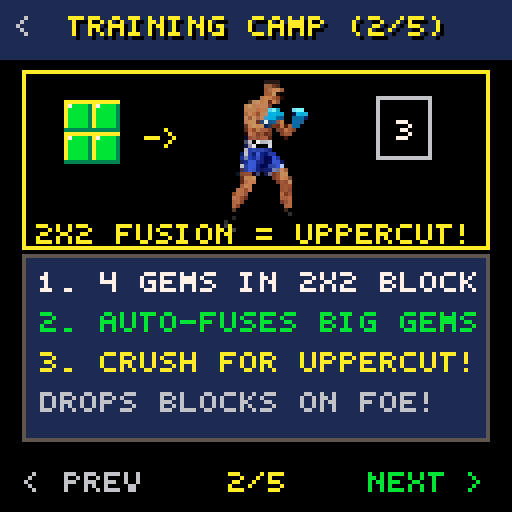
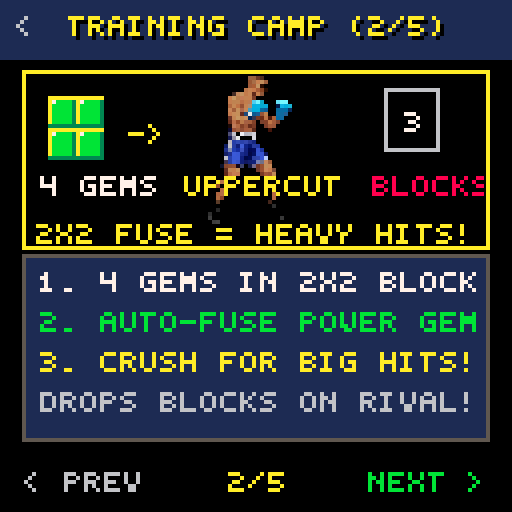
Clarify tutorial visuals with labeled Square Gem vs Round Crash Orb diagrams
Overhaul Training Camp Lesson 1 and visual aids for intuitive non-gamer clarity:
1. Provide explicit side-by-side labeled visual breakdown in Lesson 1 diorama:
   - SQUARE GEM (labeled as stack building block).
   - ROUND ORB (labeled as detonator bomb).
   - 3-step animated formula: Orb touches Gem -> Detonates -> Throws Punch!
2. Refine Lessons 2 through 5 with labeled visual elements, clear bullet points,
   and zero text clipping.
3. Refresh all 5 tutorial screenshots and the 6-tile composite contact sheet.
4. Increment version to v3.6.3 in index.html and README.md.

Constraint: Visuals must clearly explain puzzle fighter mechanics to non-gamers
Rejected: Unlabeled gem stacks without explicit component breakdowns
Confidence: high
Scope-risk: narrow
Directive: Maintain labeled diorama visual formulas in all future tutorial additions
Tested: Automated Chrome CDP test verifying all 5 tutorial pages with 0 console errors
Not-tested: none

diff --git a/index.html b/index.html
@@ -3,7 +3,7 @@
 <head>
   <meta charset="UTF-8">
   <meta name="viewport" content="width=device-width, initial-scale=1.0, maximum-scale=1.0, user-scalable=no, viewport-fit=cover">
-  <title>CRASH OUT: RING RUSH (v3.6.2) — Authentic In-Game Gems & Training Camp</title>
+  <title>CRASH OUT: RING RUSH (v3.6.3) — Crystal Clear Visual Training Camp</title>
   <style>
     :root {
       --pico-black: #000000;
@@ -3975,7 +3975,7 @@
       if (Math.floor(globalFrameCount / 22) % 2 === 0) {
         printPicoCenter('PRESS START / TOUCH', 109, 10, 1, true);
       }
-      printPicoCenter('OBEATS STUDIOS 2026  BUILD 3.6.2', 121, 6, 1);
+      printPicoCenter('OBEATS STUDIOS 2026  BUILD 3.6.3', 121, 6, 1);
     }
 
     // === MODE SELECT RENDERER ===
@@ -4148,103 +4148,118 @@
       const animT = Math.floor(globalFrameCount * 0.1) % 60;
 
       if (tutorialPage === 0) {
-        // ── Lesson 1: Match & Crush (Puzzles -> Boxing Punches) ──
-        // Left: Falling Gem Pair (Type 2 Blue + Type 4 Yellow)
-        const gemDropY = 22 + (animT % 12);
-        drawTutorialGem(ctx, 15, gemDropY, 2, false, 3, 7, 8);
-        drawTutorialGem(ctx, 15, gemDropY + 8, 4, false, 3, 7, 8);
-        // Down arrow
-        ctx.fillStyle = getPalColor(7);
-        ctx.fillRect(18, 38, 1, 4); ctx.fillRect(17, 41, 3, 1);
+        // ── Lesson 1: Match & Crush (Square Gems vs Round Crash Orbs) ──
+        // 1. Left Column: SQUARE GEM (Passive stacking block)
+        drawTutorialGem(ctx, 15, 21, 2, false, 3, 10, 10); // Large Blue Square Gem
+        printPico('SQUARE', 11, 35, 10, 1);
+        printPico('STACK', 13, 44, 7, 1);
 
-        // Center: Stacked Red Gems (Type 1) + Glowing Red Crash Orb (Type 5)
-        drawTutorialGem(ctx, 44, 42, 1, false, 3, 7, 8);
-        drawTutorialGem(ctx, 44, 50, 1, false, 3, 7, 8);
-        drawTutorialGem(ctx, 44, 32, 5, false, 3, 7, 8, true); // Glowing crash orb!
+        // 2. Middle Column: ROUND CRASH ORB (Active detonator bomb)
+        drawTutorialGem(ctx, 48, 21, 5, false, 3, 10, 10, true); // Large Red Crash Orb
+        printPico('ROUND', 47, 35, 10, 1);
+        printPico('BOMB!', 47, 44, 8, 1, true);
 
-        // Right: Explosion spark particles & Boxer punching!
-        const isDet = (animT > 30);
-        if (isDet) {
+        // 3. Right Column: Orb + Gem Detonation Formula
+        const isDet = (animT > 25);
+        if (!isDet) {
+          // Red Orb landing on Red Gem
+          drawTutorialGem(ctx, 80, 22, 5, false, 3, 8, 8, true);
+          drawTutorialGem(ctx, 80, 31, 1, false, 3, 8, 8);
+        } else {
+          // Animated explosion sparks
           ctx.fillStyle = getPalColor(10);
-          ctx.fillRect(68, 38, 3, 3); ctx.fillRect(74, 32, 2, 2); ctx.fillRect(66, 46, 2, 2);
+          ctx.fillRect(78, 26, 3, 3); ctx.fillRect(84, 20, 2, 2); ctx.fillRect(76, 34, 2, 2);
           ctx.fillStyle = getPalColor(7);
-          ctx.fillRect(70, 36, 2, 2); ctx.fillRect(72, 44, 2, 2);
+          ctx.fillRect(82, 24, 2, 2); ctx.fillRect(80, 32, 2, 2);
         }
-        // Grounded Boxer Avatar punching inside box bounds
-        drawBoxerAvatar(ctx, ROSTER[0], 96, 58, false, false, false);
-        printPicoCenter('CRUSH GEMS TO PUNCH!', 56, 11, 1);
+        // Grounded Boxer Avatar punching inside diorama
+        drawBoxerAvatar(ctx, ROSTER[0], 106, 56, false, false, false);
+        printPico('PUNCH!', 78, 44, 11, 1, true);
+
+        printPicoCenter('ORB TOUCHES GEM = BOOM!', 56, 11, 1);
 
       } else if (tutorialPage === 1) {
         // ── Lesson 2: Power Gems (Fusion & Heavy Hits) ──
         const isFused = (animT > 20);
         if (!isFused) {
           // 4 individual Type 3 Green gems with crystal bevels
-          drawTutorialGem(ctx, 16, 25, 3, false, 3, 7, 8);
-          drawTutorialGem(ctx, 23, 25, 3, false, 3, 7, 8);
-          drawTutorialGem(ctx, 16, 33, 3, false, 3, 7, 8);
-          drawTutorialGem(ctx, 23, 33, 3, false, 3, 7, 8);
+          drawTutorialGem(ctx, 12, 24, 3, false, 3, 7, 8);
+          drawTutorialGem(ctx, 19, 24, 3, false, 3, 7, 8);
+          drawTutorialGem(ctx, 12, 32, 3, false, 3, 7, 8);
+          drawTutorialGem(ctx, 19, 32, 3, false, 3, 7, 8);
         } else {
           // Giant merged 2x2 Power Gem with pulsing gold border
-          drawTutorialGem(ctx, 16, 25, 3, true, 3, 14, 16, true);
-          printPico('2X2', 18, 32, 0, 1, true);
+          drawTutorialGem(ctx, 12, 24, 3, true, 3, 14, 16, true);
+          printPico('2X2', 14, 31, 0, 1, true);
         }
+        printPico('4 GEMS', 10, 44, 7, 1);
 
-        // Arrow & Uppercut shockwave
+        // Arrow
         ctx.fillStyle = getPalColor(10);
-        printPico('->', 36, 32, 10, 1, true);
+        printPico('->', 32, 31, 10, 1, true);
 
         // Giant Uppercut Boxer Animation inside box bounds
-        drawBoxerAvatar(ctx, ROSTER[1], 66, 58, true, false, false);
-        // Authentic Stone Counter block falling on rival
-        drawTutorialGem(ctx, 94, 24, 10, false, 3, 14, 16);
+        drawBoxerAvatar(ctx, ROSTER[1], 62, 56, true, false, false);
+        printPico('UPPERCUT', 46, 44, 10, 1, true);
 
-        printPicoCenter('2X2 FUSION = UPPERCUT!', 56, 10, 1);
+        // Authentic Stone Counter block falling on rival
+        drawTutorialGem(ctx, 96, 22, 10, false, 3, 14, 16);
+        printPico('BLOCKS', 93, 44, 8, 1);
+
+        printPicoCenter('2X2 FUSE = HEAVY HITS!', 56, 10, 1);
 
       } else if (tutorialPage === 2) {
         // ── Lesson 3: Super Meter & 100% Finisher ──
         // Full Super Meter Bar
         ctx.fillStyle = getPalColor(1);
-        ctx.fillRect(10, 26, 36, 8);
+        ctx.fillRect(10, 24, 36, 8);
         ctx.fillStyle = (Math.floor(globalFrameCount / 6) % 2 === 0) ? getPalColor(10) : getPalColor(7);
-        ctx.fillRect(10, 26, 36, 8);
+        ctx.fillRect(10, 24, 36, 8);
         ctx.strokeStyle = getPalColor(7);
-        ctx.strokeRect(10, 26, 36, 8);
-        printPico('100% READY', 11, 28, 0, 1, true);
+        ctx.strokeRect(10, 24, 36, 8);
+        printPico('100% READY', 11, 26, 0, 1, true);
+        printPico('METER', 16, 44, 7, 1);
 
         // Pulsing Red [X / SUPER] Action Button
         ctx.fillStyle = getPalColor(8);
-        ctx.fillRect(54, 23, 18, 18);
+        ctx.fillRect(54, 21, 18, 18);
         ctx.strokeStyle = (Math.floor(globalFrameCount / 5) % 2 === 0) ? getPalColor(10) : getPalColor(7);
         ctx.lineWidth = 2;
-        ctx.strokeRect(54, 23, 18, 18);
+        ctx.strokeRect(54, 21, 18, 18);
         ctx.lineWidth = 1;
-        printPicoCenter('X', 28, 7, 2, true);
+        printPicoCenter('X', 26, 7, 2, true);
+        printPico('TAP [X]', 51, 44, 10, 1, true);
 
         // Special move particle blast
         ctx.fillStyle = getPalColor(10);
-        ctx.fillRect(84, 22, 28, 20);
-        drawBoxerAvatar(ctx, ROSTER[2], 96, 58, true, false, false);
-        printPicoCenter('TAP [X] AT 100% SUPER!', 56, 10, 1);
+        ctx.fillRect(84, 20, 28, 20);
+        drawBoxerAvatar(ctx, ROSTER[2], 96, 56, true, false, false);
+        printPico('KO MOVE!', 84, 44, 11, 1, true);
+
+        printPicoCenter('AT 100%: TAP RED [X]!', 56, 10, 1);
 
       } else if (tutorialPage === 3) {
         // ── Lesson 4: Knockdown 10-Count Survival ──
         // Referee Count Box
         ctx.fillStyle = 'rgba(0,0,0,0.9)';
-        ctx.fillRect(10, 22, 32, 28);
+        ctx.fillRect(10, 20, 30, 24);
         ctx.strokeStyle = getPalColor(8);
-        ctx.strokeRect(10, 22, 32, 28);
-        printPico('COUNT', 14, 25, 8, 1);
-        printPico('7', 22, 33, 10, 2, true);
+        ctx.strokeRect(10, 20, 30, 24);
+        printPico('COUNT', 13, 23, 8, 1);
+        printPico('7', 21, 31, 10, 2, true);
+        printPico('10-COUNT', 8, 46, 8, 1);
 
         // Boxer on Canvas flat inside box bounds
-        drawBoxerAvatar(ctx, ROSTER[0], 60, 58, true, false, true);
+        drawBoxerAvatar(ctx, ROSTER[0], 58, 56, true, false, true);
+        printPico('0 HP DOWN', 45, 46, 7, 1);
 
         // Animated Tap Finger & Expanding Ripples
         const tapRip = (Math.floor(globalFrameCount * 0.8) % 14) + 2;
         ctx.strokeStyle = `rgba(255, 236, 39, ${Math.max(0, 1 - tapRip / 16)})`;
-        ctx.beginPath(); ctx.arc(96, 34, tapRip, 0, Math.PI * 2); ctx.stroke();
+        ctx.beginPath(); ctx.arc(98, 28, tapRip, 0, Math.PI * 2); ctx.stroke();
         ctx.fillStyle = getPalColor(10);
-        ctx.fillRect(94, 32, 4, 6); ctx.fillRect(95, 28, 2, 5);
+        ctx.fillRect(96, 26, 4, 6); ctx.fillRect(97, 22, 2, 5);
+        printPico('TAP FAST!', 86, 46, 10, 1, true);
 
         printPicoCenter('RAPIDLY TAP TO GET UP!', 56, 11, 1);
 
@@ -4252,27 +4267,27 @@
         // ── Lesson 5: Mobile Touch Controls & Ready to Fight ──
         // Virtual D-Pad Icon
         ctx.fillStyle = getPalColor(5);
-        ctx.fillRect(14, 24, 18, 6);
-        ctx.fillRect(20, 18, 6, 18);
-        printPico('MOVE', 12, 40, 7, 1);
+        ctx.fillRect(14, 22, 18, 6);
+        ctx.fillRect(20, 16, 6, 18);
+        printPico('D-PAD', 15, 44, 7, 1);
 
         // Action Buttons A/B & X
         ctx.fillStyle = getPalColor(8);
-        ctx.beginPath(); ctx.arc(58, 26, 6, 0, Math.PI * 2); ctx.fill();
-        printPico('A', 56, 24, 7, 1);
+        ctx.beginPath(); ctx.arc(54, 24, 6, 0, Math.PI * 2); ctx.fill();
+        printPico('A', 52, 22, 7, 1);
         ctx.fillStyle = getPalColor(2);
-        ctx.beginPath(); ctx.arc(72, 26, 6, 0, Math.PI * 2); ctx.fill();
-        printPico('B', 70, 24, 7, 1);
-        printPico('ROTATE', 54, 40, 7, 1);
+        ctx.beginPath(); ctx.arc(68, 24, 6, 0, Math.PI * 2); ctx.fill();
+        printPico('B', 66, 22, 7, 1);
+        printPico('ROTATE', 49, 44, 7, 1);
 
         // Trophy Cup Icon
         ctx.fillStyle = getPalColor(10);
-        ctx.fillRect(96, 22, 12, 10);
-        ctx.fillRect(100, 32, 4, 4);
-        ctx.fillRect(97, 36, 10, 2);
-        printPico('READY!', 92, 40, 10, 1, true);
+        ctx.fillRect(96, 20, 12, 10);
+        ctx.fillRect(100, 30, 4, 4);
+        ctx.fillRect(97, 34, 10, 2);
+        printPico('READY!', 92, 44, 10, 1, true);
 
-        printPicoCenter('READY FOR THE RING!', 56, 10, 1);
+        printPicoCenter('TAP [X] TO ENTER RING!', 56, 10, 1);
       }
 
       ctx.restore(); // Restore clip region
@@ -4284,30 +4299,30 @@
       ctx.strokeRect(6, 64, 116, 46);
 
       if (tutorialPage === 0) {
-        printPico('1. GEMS FALL IN PAIRS', 10, 68, 7, 1);
-        printPico('2. HIT WITH CRASH ORB', 10, 78, 11, 1);
-        printPico('3. CRUSH GEMS = PUNCH!', 10, 88, 10, 1);
-        printPico('PAD: MOVE  Z/X: ROTATE', 10, 98, 6, 1);
+        printPico('1. SQUARE GEMS: STACK', 10, 68, 7, 1);
+        printPico('2. ROUND ORBS: BOMBS!', 10, 78, 10, 1, true);
+        printPico('3. TOUCH SAME COLOR', 10, 88, 11, 1);
+        printPico('CRUSHING THROWS PUNCH!', 10, 98, 10, 1);
       } else if (tutorialPage === 1) {
         printPico('1. 4 GEMS IN 2X2 BLOCK', 10, 68, 7, 1);
-        printPico('2. AUTO-FUSES BIG GEMS', 10, 78, 11, 1);
-        printPico('3. CRUSH FOR UPPERCUT!', 10, 88, 10, 1);
-        printPico('DROPS BLOCKS ON FOE!', 10, 98, 6, 1);
+        printPico('2. AUTO-FUSE POWER GEM', 10, 78, 11, 1);
+        printPico('3. CRUSH FOR BIG HITS!', 10, 88, 10, 1);
+        printPico('DROPS BLOCKS ON RIVAL!', 10, 98, 6, 1);
       } else if (tutorialPage === 2) {
         printPico('1. GEMS FILL SUPER BAR', 10, 68, 7, 1);
         printPico('2. AT 100% TAP RED [X]', 10, 78, 10, 1, true);
-        printPico('3. FIRES KO FINISHER!', 10, 88, 11, 1);
-        printPico('HEAVY BLOCKS ON FOE!', 10, 98, 6, 1);
+        printPico('3. CAST SUPER FINISHER', 10, 88, 11, 1);
+        printPico('HEAVY BLOCKS ON ENEMY!', 10, 98, 6, 1);
       } else if (tutorialPage === 3) {
         printPico('1. 0 HP = KNOCKDOWN!', 10, 68, 7, 1);
-        printPico('2. TAP TO FILL STAMINA', 10, 78, 10, 1, true);
+        printPico('2. RAPIDLY TAP SCREEN', 10, 78, 10, 1, true);
         printPico('3. BEAT 10 FOR +28 HP!', 10, 88, 11, 1);
         printPico('3 KNOCKDOWNS = T.K.O.!', 10, 98, 8, 1);
       } else {
-        printPico('1. D-PAD: MOVE & DROP', 10, 68, 7, 1);
-        printPico('2. Z/X OR A/B: ROTATE', 10, 78, 11, 1);
+        printPico('1. D-PAD: MOVE GEMS', 10, 68, 7, 1);
+        printPico('2. A / B: ROTATE GEMS', 10, 78, 11, 1);
         printPico('3. X: 100% SUPER MOVE', 10, 88, 10, 1);
-        printPico('TAP [X] TO ENTER RING!', 10, 98, 10, 1, true);
+        printPico('TAP SCREEN: RECOVER!', 10, 98, 10, 1, true);
       }
 
       // ── Bottom Navigation Bar (Y: 113..128) ──

diff --git a/README.md b/README.md
@@ -1,6 +1,6 @@
 # 🥊 CRASH OUT: RING RUSH — The Ultimate Adrien Broner, Deen The Great & COB (Crash Out Boys) Retro Puzzle Boxing Game
 
-[![Game Version](https://img.shields.io/badge/Version-v3.6.2-FF004D?style=for-the-badge&logo=retro-arch&logoColor=white)](https://officebeats.github.io/beats-social-media-boxer-game/)
+[![Game Version](https://img.shields.io/badge/Version-v3.6.3-FF004D?style=for-the-badge&logo=retro-arch&logoColor=white)](https://officebeats.github.io/beats-social-media-boxer-game/)
 [![Engine](https://img.shields.io/badge/Engine-PICO--8%20%2F%20HTML5%20Canvas-00E436?style=for-the-badge&logo=html5&logoColor=white)](https://officebeats.github.io/beats-social-media-boxer-game/)
 [![Frame Rate](https://img.shields.io/badge/Performance-Locked%2060%20FPS-29ADFF?style=for-the-badge&logo=speedtest&logoColor=white)](https://officebeats.github.io/beats-social-media-boxer-game/)
 [![Play Live Online](https://img.shields.io/badge/Play%20Live-GitHub%20Pages-FFEC27?style=for-the-badge&logo=github&logoColor=black)](https://officebeats.github.io/beats-social-media-boxer-game/)
